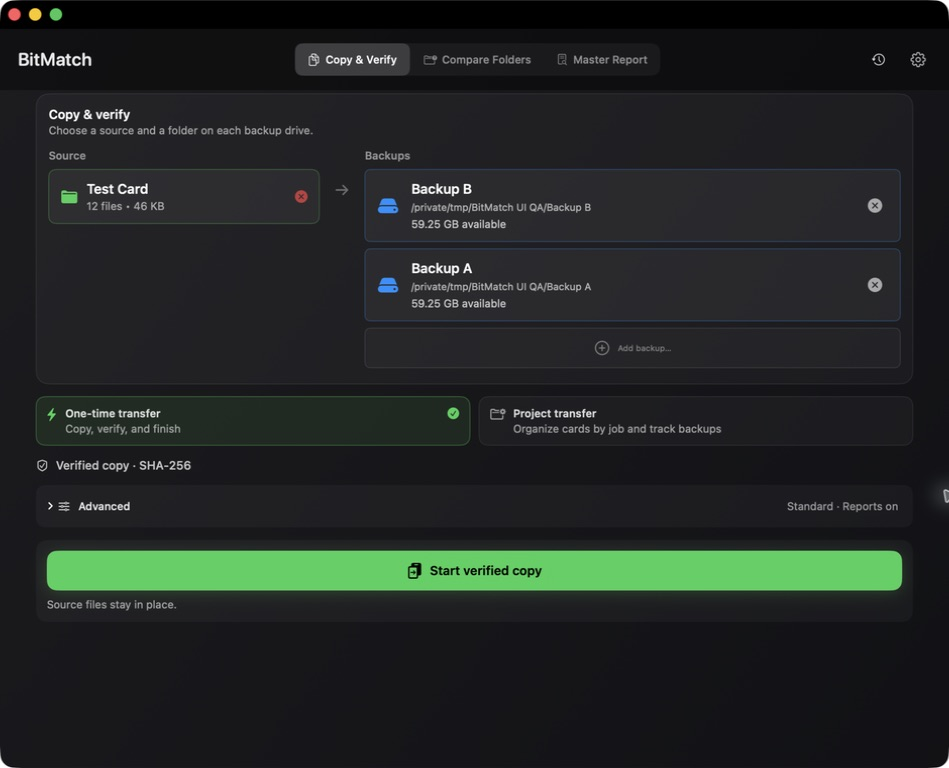
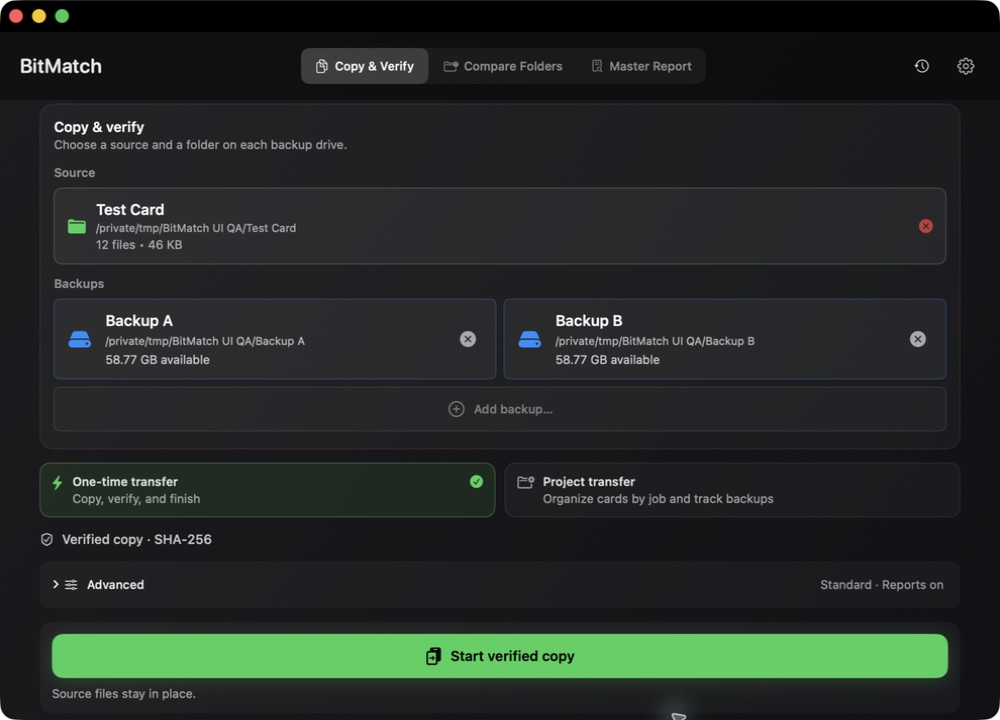
Balance Mac setup layout and unify mobile headings

diff --git a/BitMatch/Views/HorizontalFlowView.swift b/BitMatch/Views/HorizontalFlowView.swift
@@ -21,7 +21,7 @@ struct HorizontalFlowView: View {
 
     var body: some View {
         Group {
-            if presentation == .expanded {
+            if presentation == .expanded && fileSelection.sourceURL == nil {
                 HStack(alignment: .top, spacing: 16) {
                     compactSourceSection
                         .frame(minWidth: 210, idealWidth: 250, maxWidth: 300)
@@ -33,8 +33,6 @@ struct HorizontalFlowView: View {
             } else {
                 VStack(alignment: .leading, spacing: 12) {
                     compactSourceSection
-                    transferDirection(symbol: "arrow.down")
-                        .frame(maxWidth: .infinity)
                     compactDestinationsSection
                 }
             }
@@ -119,6 +117,11 @@ struct HorizontalFlowView: View {
                 .font(.system(size: 15, weight: .semibold))
                 .foregroundColor(.white)
                 .lineLimit(2)
+            Text(sourceURL.path)
+                .font(.system(size: 11))
+                .foregroundColor(.white.opacity(0.6))
+                .lineLimit(1)
+                .truncationMode(.middle)
             if let cam = fileSelection.sourceCameraLabel, !cam.isEmpty {
                 Text(cam)
                     .font(.system(size: 10, weight: .medium))
@@ -266,49 +269,54 @@ struct HorizontalFlowView: View {
                         compactDestinationCard(for: destination, at: index)
                     }
 
-                    // Add more button
-                    if !isOperationActive {
-                        Button {
-                            selectDestinationFolder()
-                        } label: {
-                            HStack(spacing: 8) {
-                                Image(systemName: "plus.circle")
-                                    .font(.system(size: 16))
-                                    .foregroundColor(.white.opacity(0.4))
-
-                                Text("Add backup…")
-                                    .font(.system(size: 9))
-                                    .foregroundColor(.white.opacity(0.4))
-                            }
-                            .frame(maxWidth: .infinity, minHeight: 44)
-                            .background(
-                                RoundedRectangle(cornerRadius: 6)
-                                    .fill(Color.white.opacity(0.03))
-                                    .overlay(
-                                        RoundedRectangle(cornerRadius: 6)
-                                            .stroke(
-                                                isAddButtonTargeted ? Color.green.opacity(0.6) : Color.white.opacity(0.1),
-                                                lineWidth: isAddButtonTargeted ? 2 : 1
-                                            )
-                                    )
-                            )
-                            .onDrop(of: [.fileURL], isTargeted: $isAddButtonTargeted) { providers, location in
-                                handleAddDestinationDrop(providers: providers)
-                            }
-                        }
-                        .buttonStyle(.plain)
-                        .frame(minWidth: 120)
-                        .accessibilityLabel("Add backup destination")
-                        .accessibilityHint("Opens a folder picker for another backup")
-                    }
                 }
                 .frame(maxWidth: .infinity, alignment: .leading)
+
+                // Add more button
+                if !isOperationActive {
+                    Button {
+                        selectDestinationFolder()
+                    } label: {
+                        HStack(spacing: 8) {
+                            Image(systemName: "plus.circle")
+                                .font(.system(size: 16))
+                                .foregroundColor(.white.opacity(0.4))
+
+                            Text("Add backup…")
+                                .font(.system(size: 12, weight: .medium))
+                                .foregroundColor(.white.opacity(0.4))
+                        }
+                        .frame(maxWidth: .infinity, minHeight: 44)
+                        .background(
+                            RoundedRectangle(cornerRadius: 6)
+                                .fill(Color.white.opacity(0.03))
+                                .overlay(
+                                    RoundedRectangle(cornerRadius: 6)
+                                        .stroke(
+                                            isAddButtonTargeted ? Color.green.opacity(0.6) : Color.white.opacity(0.1),
+                                            lineWidth: isAddButtonTargeted ? 2 : 1
+                                        )
+                                )
+                        )
+                        .onDrop(of: [.fileURL], isTargeted: $isAddButtonTargeted) { providers, location in
+                            handleAddDestinationDrop(providers: providers)
+                        }
+                    }
+                    .buttonStyle(.plain)
+                    .frame(minWidth: 120)
+                    .accessibilityLabel("Add backup destination")
+                    .accessibilityHint("Opens a folder picker for another backup")
+                }
             }
         }
     }
 
     private var destinationColumns: [GridItem] {
-        [GridItem(.flexible(), spacing: 8)]
+        if fileSelection.sourceURL != nil && fileSelection.destinationURLs.count > 1 && presentation == .expanded {
+            return [GridItem(.flexible(), spacing: 8, alignment: .top),
+                    GridItem(.flexible(), spacing: 8, alignment: .top)]
+        }
+        return [GridItem(.flexible(), spacing: 8)]
     }
 
     @ViewBuilder

diff --git a/BitMatch-iPad/Views/CopyAndVerifyView.swift b/BitMatch-iPad/Views/CopyAndVerifyView.swift
@@ -451,23 +451,44 @@ private struct MobileProjectSetupCard: View {
 
 struct CopyAndVerifyHeaderView: View {
     var body: some View {
-        VStack(spacing: 8) {
-            HStack {
-                Image(systemName: "doc.on.doc")
-                    .font(.system(size: 24))
-                    .foregroundColor(.green)
-                
-                Text("COPY & VERIFY")
-                    .font(.system(size: 18, weight: .bold))
-                    .foregroundColor(.white)
-                
-                Spacer()
-            }
-            
-            Text("Copy files to backup destinations with integrity verification")
-                .font(.system(size: 14))
-                .foregroundColor(.white.opacity(0.7))
-                .multilineTextAlignment(.leading)
+        MobileWorkflowHeader(
+            title: "Copy & verify",
+            detail: "Copy a card or folder to your backups.",
+            symbol: "doc.on.doc",
+            tint: .green
+        )
+    }
+}
+
+/// A consistent, compact heading for each mobile workspace.
+struct MobileWorkflowHeader: View {
+    let title: String
+    let detail: String
+    let symbol: String
+    let tint: Color
+
+    var body: some View {
+        VStack(alignment: .leading, spacing: 4) {
+            Label(title, systemImage: symbol)
+                .font(.title3.weight(.semibold))
+                .foregroundStyle(.white)
+                .labelStyle(MobileWorkflowLabelStyle(tint: tint))
+                .accessibilityAddTraits(.isHeader)
+            Text(detail)
+                .font(.subheadline)
+                .foregroundStyle(.secondary)
+                .fixedSize(horizontal: false, vertical: true)
+        }
+        .frame(maxWidth: .infinity, alignment: .leading)
+    }
+}
+
+private struct MobileWorkflowLabelStyle: LabelStyle {
+    let tint: Color
+    func makeBody(configuration: Configuration) -> some View {
+        HStack(alignment: .firstTextBaseline, spacing: 8) {
+            configuration.icon.foregroundStyle(tint)
+            configuration.title
         }
     }
 }
@@ -587,9 +608,8 @@ struct ProfessionalSourceCard: View {
             // Header
             HStack {
                 Text("Source")
-                    .font(.system(size: 11, weight: .semibold))
-                    .foregroundColor(.white.opacity(0.6))
-                    .tracking(1.0)
+                    .font(.subheadline.weight(.semibold))
+                    .foregroundColor(.secondary)
                 
                 Spacer()
                 
@@ -714,9 +734,8 @@ struct DestinationsFlowView: View {
             // Header
             VStack(alignment: .leading, spacing: 4) {
                 Text("Backups")
-                    .font(.system(size: 9, weight: .semibold))
-                    .foregroundColor(.white.opacity(0.5))
-                    .tracking(1.2)
+                    .font(.subheadline.weight(.semibold))
+                    .foregroundColor(.secondary)
                 
                 if !coordinator.destinationURLs.isEmpty {
                     Text("\(coordinator.destinationURLs.count) selected")

diff --git a/BitMatch-iPad/Views/ModularContentView.swift b/BitMatch-iPad/Views/ModularContentView.swift
@@ -244,24 +244,12 @@ struct CompareFoldersView: View {
 
 struct CompareFoldersHeaderView: View {
     var body: some View {
-        VStack(spacing: 8) {
-            HStack {
-                Image(systemName: "folder.badge.questionmark")
-                    .font(.system(size: 24))
-                    .foregroundColor(.purple)
-                
-                Text("COMPARE FOLDERS")
-                    .font(.system(size: 18, weight: .bold))
-                    .foregroundColor(.white)
-                
-                Spacer()
-            }
-            
-            Text("Compare two folders to identify differences and verify integrity")
-                .font(.system(size: 14))
-                .foregroundColor(.white.opacity(0.7))
-                .multilineTextAlignment(.leading)
-        }
+        MobileWorkflowHeader(
+            title: "Compare folders",
+            detail: "Check two folders for differences.",
+            symbol: "folder.badge.questionmark",
+            tint: .purple
+        )
     }
 }
 
@@ -712,24 +700,12 @@ struct MasterReportHeaderView: View {
     @Binding var showingVolumeSelector: Bool
     
     var body: some View {
-        VStack(spacing: 12) {
-            HStack {
-                Image(systemName: "doc.text.magnifyingglass")
-                    .font(.system(size: 24))
-                    .foregroundColor(.blue)
-                
-                Text("MASTER REPORT")
-                    .font(.system(size: 18, weight: .bold))
-                    .foregroundColor(.white)
-                
-                Spacer()
-            }
-            
-            Text("Scan volumes to discover completed transfers and generate comprehensive reports")
-                .font(.system(size: 14))
-                .foregroundColor(.white.opacity(0.7))
-                .multilineTextAlignment(.leading)
-        }
+        MobileWorkflowHeader(
+            title: "Master report",
+            detail: "Find completed transfers and collect their reports.",
+            symbol: "doc.text.magnifyingglass",
+            tint: .blue
+        )
     }
 }
 

diff --git a/BitMatch/App/ContentView.swift b/BitMatch/App/ContentView.swift
@@ -35,17 +35,14 @@ struct ContentView: View {
         // Add content height based on current mode
         switch coordinator.currentMode {
         case .copyAndVerify:
-            // Dynamic height based on number of destinations
-            let baseSourceDestinationHeight: CGFloat = 180
-            let additionalDestinationHeight: CGFloat = 50 // Height per additional destination
+            // Allow room for the source row, backup grid, and primary action.
+            // Backup rows grow in pairs at the default compact window width.
             let destinationCount = coordinator.fileSelectionViewModel.destinationURLs.count
-            let extraHeight = destinationCount > 1 ? CGFloat(destinationCount - 1) * additionalDestinationHeight : 0
-            
-            let sourceDestinationHeight = baseSourceDestinationHeight + extraHeight
-            let controlPanelBaseHeight: CGFloat = 120  // Base control panel
-            
-            totalHeight += sourceDestinationHeight + controlPanelBaseHeight
-            
+            let hasSource = coordinator.fileSelectionViewModel.sourceURL != nil
+            let extraRows = max(0, (destinationCount + 1) / 2 - 1)
+            let locationsHeight: CGFloat = hasSource ? 320 + CGFloat(extraRows) * 84 : 230
+            totalHeight += locationsHeight + 200
+
             if transferOptionsExpanded { totalHeight += 330 }
             
         case .compareFolders:

diff --git a/Shared/Views/TransferLibraryView.swift b/Shared/Views/TransferLibraryView.swift
@@ -65,6 +65,9 @@ struct TransferLibraryView: View {
                 }.padding()
             }
             .navigationTitle("Transfers")
+            #if os(iOS)
+            .navigationBarTitleDisplayMode(.inline)
+            #endif
             .toolbar { ToolbarItem(placement: .confirmationAction) { Button("Done") { dismiss() } } }
             .sheet(isPresented: $showAddTransfer) { AddQueuedTransferView(coordinator: coordinator) }
             .fileExporter(isPresented: $showExport, document: exportDocument, contentType: exportType,
@@ -194,6 +197,9 @@ private struct AddQueuedTransferView: View {
             }
             .formStyle(.grouped)
             .navigationTitle("Add transfer")
+            #if os(iOS)
+            .navigationBarTitleDisplayMode(.inline)
+            #endif
             .toolbar {
                 ToolbarItem(placement: .cancellationAction) { Button("Cancel") { dismiss() } }
                 ToolbarItem(placement: .confirmationAction) {

diff --git a/docs/validation/2026-09-08/layout-cleanup/README.md b/docs/validation/2026-09-08/layout-cleanup/README.md
@@ -1,0 +1,22 @@
+# Setup spacing and mobile heading cleanup
+
+Validated on 2026-09-08 against the working tree based on `713516a`, containing the changes committed with this report. macOS 26.6, Xcode 26.6.
+
+Both `bash test.sh mac-build` and `bash test.sh ipad-build` passed (exit 0). These changes affect presentation only; transfer tests were not rerun.
+
+- Mac setup was inspected at 680×720 and 1,000×720 points with the existing disposable Test Card and two scratch backups. Source occupies its own row, backups use balanced columns, and Start remains visible at the default width. No copy was started for this check.
+- iPhone setup and inline Transfers titles were inspected at 402 points wide.
+- iPad setup was inspected at 820 points and in a native 375×702 window. Full-width Transfers was also checked. Narrow-window queue interaction was not verified because the automation accessibility owner switched to SpringBoard; this does not affect the visual narrow setup check.
+- These are simulator UI checks, not physical-device transfer validation.
+
+## Mac setup
+
+![Mac setup](mac-setup.png)
+
+## iPhone Transfers
+
+![iPhone Transfers](iphone-transfers.png)
+
+## Narrow iPad setup
+
+![Narrow iPad setup](ipad-narrow.png)

diff --git a/docs/validation/2026-09-08/README.md b/docs/validation/2026-09-08/README.md
@@ -26,3 +26,5 @@ The local queue is sequential. It stops on issues and waits for the user to resu
 ASC support creates initial destination inventories. It does not import or extend existing histories. The separate retry option disables new ASC generation while preserving those histories. Generating an inventory reads the destination again and can add substantial time on slow storage.
 
 Physical iPhone/iPad storage, card readers, drive disconnects on a real hub, and interoperability with commercial DIT applications remain untested. Simulator checks do not establish unattended iOS background transfer support; keep BitMatch open.
+
+[Follow-up layout cleanup](layout-cleanup/README.md) records the compact Mac setup and consistent mobile headings, including a narrow iPad window check.
